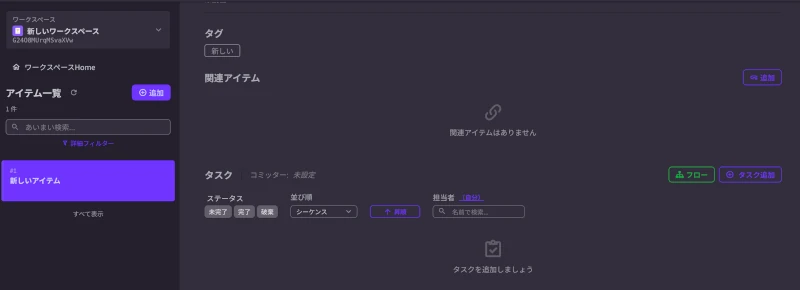
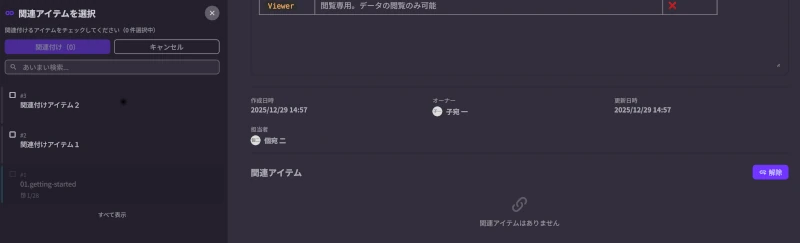
ヘルプコンテンツ作成(人間作業)

diff --git a/pecus.Frontend/src/components/common/filters/MultiSelectDropdown.tsx b/pecus.Frontend/src/components/common/filters/MultiSelectDropdown.tsx
@@ -35,6 +35,8 @@ interface MultiSelectDropdownProps {
   changeMessage?: string;
   /** 初期表示時にドロップダウンを開いた状態にする */
   defaultOpen?: boolean;
+  /** 最大選択数（省略時は無制限） */
+  maxItems?: number;
 }
 
 /**
@@ -68,7 +70,10 @@ export default function MultiSelectDropdown({
   badgeColor = 'primary',
   changeMessage,
   defaultOpen = false,
+  maxItems,
 }: MultiSelectDropdownProps) {
+  /** 最大選択数に達しているか */
+  const isMaxReached = maxItems !== undefined && selectedIds.length >= maxItems;
   /**
    * アイテムの選択状態をトグル
    */
@@ -77,10 +82,13 @@ export default function MultiSelectDropdown({
       if (selectedIds.includes(itemId)) {
         onSelectionChange(selectedIds.filter((id) => id !== itemId));
       } else {
+        if (maxItems !== undefined && selectedIds.length >= maxItems) {
+          return;
+        }
         onSelectionChange([...selectedIds, itemId]);
       }
     },
-    [selectedIds, onSelectionChange],
+    [selectedIds, onSelectionChange, maxItems],
   );
 
   /**
@@ -114,7 +122,7 @@ export default function MultiSelectDropdown({
       <div className="label">
         <span className="label-text font-semibold text-base">{label}</span>
         <span className="label-text-alt">
-          {selectedIds.length} / {items.length} 個選択中
+          {selectedIds.length} / {maxItems ?? items.length} 個選択中
         </span>
       </div>
 
@@ -139,24 +147,28 @@ export default function MultiSelectDropdown({
               <EmptyState message={emptyMessage} size="sm" />
             </li>
           ) : (
-            items.map((item) => (
-              <li key={item.id}>
-                <label
-                  className="label cursor-pointer gap-3 hover:bg-base-200 rounded p-2"
-                  htmlFor={`multi-select-item-${item.id}`}
-                >
-                  <input
-                    id={`multi-select-item-${item.id}`}
-                    type="checkbox"
-                    checked={selectedIds.includes(item.id)}
-                    onChange={() => toggleItem(item.id)}
-                    className="checkbox checkbox-primary checkbox-sm"
-                    disabled={disabled}
-                  />
-                  <span className="label-text flex-1">{item.name}</span>
-                </label>
-              </li>
-            ))
+            items.map((item) => {
+              const isSelected = selectedIds.includes(item.id);
+              const isDisabledByMax = isMaxReached && !isSelected;
+              return (
+                <li key={item.id}>
+                  <label
+                    className={`label cursor-pointer gap-3 hover:bg-base-200 rounded p-2 ${isDisabledByMax ? 'opacity-50' : ''}`}
+                    htmlFor={`multi-select-item-${item.id}`}
+                  >
+                    <input
+                      id={`multi-select-item-${item.id}`}
+                      type="checkbox"
+                      checked={isSelected}
+                      onChange={() => toggleItem(item.id)}
+                      className="checkbox checkbox-primary checkbox-sm"
+                      disabled={disabled || isDisabledByMax}
+                    />
+                    <span className="label-text flex-1">{item.name}</span>
+                  </label>
+                </li>
+              );
+            })
           )}
         </ul>
       </details>

diff --git a/pecus.Frontend/src/app/(admin-full)/admin/users/edit/[id]/EditUserClient.tsx b/pecus.Frontend/src/app/(admin-full)/admin/users/edit/[id]/EditUserClient.tsx
@@ -257,6 +257,7 @@ export default function EditUserClient({
                     emptyMessage="利用可能なスキルがありません"
                     badgeColor="primary"
                     changeMessage={skillsChanged ? '✓ スキルが変更されています' : undefined}
+                    maxItems={50}
                   />
 
                   {/* ロール編集 */}
@@ -271,6 +272,7 @@ export default function EditUserClient({
                     emptyMessage="利用可能なロールがありません"
                     badgeColor="secondary"
                     changeMessage={rolesChanged ? '✓ ロールが変更されています' : undefined}
+                    maxItems={5}
                   />
 
                   {/* アクティブ状態 */}

diff --git a/pecus.Frontend/src/components/workspaces/EditWorkspaceSkillsModal.tsx b/pecus.Frontend/src/components/workspaces/EditWorkspaceSkillsModal.tsx
@@ -218,6 +218,7 @@ export default function EditWorkspaceSkillsModal({
               badgeColor="accent"
               changeMessage={skillsChanged ? '✓ スキルが変更されています' : undefined}
               defaultOpen
+              maxItems={50}
             />
           </div>
 

diff --git a/pecus.WebApi/Models/Validation/IntListRangeAttribute.cs b/pecus.WebApi/Models/Validation/IntListRangeAttribute.cs
@@ -3,7 +3,7 @@ using System.ComponentModel.DataAnnotations;
 namespace Pecus.Models.Validation;
 
 /// <summary>
-/// 整数リストの各要素に対して範囲チェックを行う属性
+/// 整数リストの要素数が指定範囲内かをチェックする属性
 /// </summary>
 public class IntListRangeAttribute : ValidationAttribute
 {
@@ -28,14 +28,11 @@ public class IntListRangeAttribute : ValidationAttribute
             return new ValidationResult("IntListRangeAttribute は int の列挙にのみ適用できます。");
         }
 
-        var index = 0;
-        foreach (var item in list)
+        var count = list.Count();
+
+        if (count < Min || count > Max)
         {
-            if (item < Min || item > Max)
-            {
-                return new ValidationResult($"リストの要素は {Min} から {Max} の範囲である必要があります。インデックス: {index}");
-            }
-            index++;
+            return new ValidationResult($"リストの要素数は {Min} から {Max} の範囲である必要があります。現在の要素数: {count}");
         }
 
         return ValidationResult.Success;

diff --git a/pecus.WebApi/Models/Requests/User/UpdateProfileRequest.cs b/pecus.WebApi/Models/Requests/User/UpdateProfileRequest.cs
@@ -18,7 +18,7 @@ public class UpdateProfileRequest
     [MaxLength(200, ErrorMessage = "ユーザーアバターパスは200文字以内で入力してください。")]
     public string? UserAvatarPath { get; set; }
 
-    [IntListRange(1, 50)]
+    [IntListRange(0, 50)]
     public List<int>? SkillIds { get; set; }
 
     [Required(ErrorMessage = "RowVersionは必須です。")]

diff --git a/pecus.WebApi/Models/Requests/Workspace/SetWorkspaceSkillsRequest.cs b/pecus.WebApi/Models/Requests/Workspace/SetWorkspaceSkillsRequest.cs
@@ -11,7 +11,7 @@ public class SetWorkspaceSkillsRequest
     /// スキルIDのリスト。既存のすべてのスキルを置き換えます。
     /// 空のリストまたはnullの場合はすべてのスキルを削除します。
     /// </summary>
-    [IntListRange(1, 50)]
+    [IntListRange(0, 50)]
     public List<int>? SkillIds { get; set; }
 
     /// <summary>

diff --git a/pecus.WebApi/Models/Requests/User/SetOwnSkillsRequest.cs b/pecus.WebApi/Models/Requests/User/SetOwnSkillsRequest.cs
@@ -11,7 +11,7 @@ public class SetOwnSkillsRequest
     /// スキルIDのリスト。既存のすべてのスキルを置き換えます。
     /// 空のリストまたはnullの場合はすべてのスキルを削除します。
     /// </summary>
-    [IntListRange(1, 50)]
+    [IntListRange(0, 50)]
     public List<int>? SkillIds { get; set; }
 
     /// <summary>

diff --git a/pecus.Frontend/src/content/help/ja/02-create-workspace-item.md b/pecus.Frontend/src/content/help/ja/02-create-workspace-item.md
@@ -18,12 +18,27 @@
 - **優先度**: アイテムの重要度を設定します（任意）。
 - **タグ**: 分類用のタグを追加できます（任意）。
 - **下書きとして保存**: チェックを入れると、他のメンバーには変更できない下書き状態になります。
-- **本文**: アイテムの詳細内容をNotion風のエディタで記述します。AIによる入力支援機能も利用できます。
+- 本文: アイテムの詳細内容をNotion風のエディタで記述します。AIによる入力支援機能も利用できます。
+
+## アイテムの関連付け
+アイテム同士を関連付けることで、依存関係や参照関係を明確にできます。
+
+![画面](/help/images/1000004.webp)
+
+### 関連付けの手順
+1. アイテム詳細画面の「関連アイテム」セクションにある **追加** ボタンをクリックします。
+2. 画面左側のアイテム一覧サイドバーが選択モードに切り替わります。
+3. 関連付けたいアイテムを選択し、**確定** ボタンをクリックします。
+
+### 関連付けの解除
+関連アイテムリストの各行にある **解除** ボタン（リンク解除アイコン）をクリックすると、関連付けを解除できます。
+
+※ ドキュメントモードのワークスペースでは、この機能は利用できません。
 
 ## タスクの作成
 タスクは、アイテムを完了させるための具体的な作業単位です。アイテム詳細画面から作成します。
 
-![画面](/help/images/1000004.webp)
+![画面](/help/images/1000005.webp)
 
 ### 作成手順
 1. 対象のアイテム詳細画面を開きます。

diff --git a/pecus.Frontend/src/content/help/ja/11-skill-matching.md b/pecus.Frontend/src/content/help/ja/11-skill-matching.md
@@ -6,6 +6,8 @@
 プロフィール設定から自分の得意なスキル（プログラミング言語、フレームワーク、ツールなど）を登録できます。
 スキルを登録しておくと、ワークスペースへの招待やタスクのアサイン時に、あなたの専門性が可視化されやすくなります。
 
+![画面](/help/images/1000019.webp)
+
 1. 画面右上のユーザーアイコンをクリックし、**設定**を選択します。
 2. **スキル**タブを選択します。
 3. スキル名を入力して検索し、追加します。
@@ -17,8 +19,12 @@
 1. ワークスペースのメニューから**スキル**を選択します。
 2. そのプロジェクトで必要となるスキル（例: TypeScript, React, Dockerなど）を登録します。
 
+![画面](/help/images/1000017.webp)
+
 ### メンバー追加時の表示
 メンバー追加画面でユーザーを検索すると、以下の情報が表示されます。
+
+![画面](/help/images/1000018.webp)
 
 - **マッチ率**: ワークスペースの必須スキルをどれくらい満たしているかがパーセントで表示されます。
 - **マッチしたスキル**: 必須スキルのうち、候補者が持っているスキル。

diff --git a/pecus.Frontend/src/content/help/ja/03-task-management.md b/pecus.Frontend/src/content/help/ja/03-task-management.md
@@ -2,6 +2,8 @@
 
 ワークスペース内のタスクを効率的に管理するための機能について説明します。
 
+![画面](/help/images/1000006.webp)
+
 ## タスクのステータス
 タスクは以下のステータスを持ちます。一覧画面でフィルタリングして表示できます。
 
@@ -11,6 +13,8 @@
 
 ## タスク詳細とコメント
 タスク詳細画面では、進捗状況の更新やメンバー間のコミュニケーションが行えます。
+
+![画面](/help/images/1000007.webp)
 
 ### コメント機能
 目的に応じてコメントの種類を使い分けることで、円滑なコミュニケーションを支援します。
@@ -25,6 +29,8 @@
 ## タスクフローマップ
 タスク間の依存関係（先行・後続）を視覚的に確認できる機能です。
 アイテム詳細画面の「フローマップ」ボタンから表示できます。
+
+![画面](/help/images/1000008.webp)
 
 ### 主な機能
 - **クリティカルパス**: プロジェクトの完了に最も影響を与えるタスクの連なりを表示します。

diff --git a/pecus.Frontend/src/content/help/ja/06-dashboard.md b/pecus.Frontend/src/content/help/ja/06-dashboard.md
@@ -3,6 +3,8 @@
 ログイン直後に表示されるダッシュボード画面について説明します。
 この画面では、プロジェクト全体の状況や、あなた自身のタスク状況を一目で確認できます。
 
+![画面](/help/images/1000011.webp)
+
 ## マイタスク (個人サマリ)
 画面上部に表示されるセクションです。あなた自身のタスク状況が表示されます。
 
@@ -10,6 +12,8 @@
 - **完了**: これまでに完了したタスクの累計数。
 - **期限切れ**: 期限を過ぎてしまった未完了タスクの数。
 - **やることピックアップ**: AIが推奨する「今日やるべきタスク」を提案してくれる機能です。何から着手すべきか迷った時に活用してください。
+
+![画面](/help/images/1000012.webp)
 
 ## プロジェクト状況
 チーム全体の活動状況を把握するための統計情報です。
